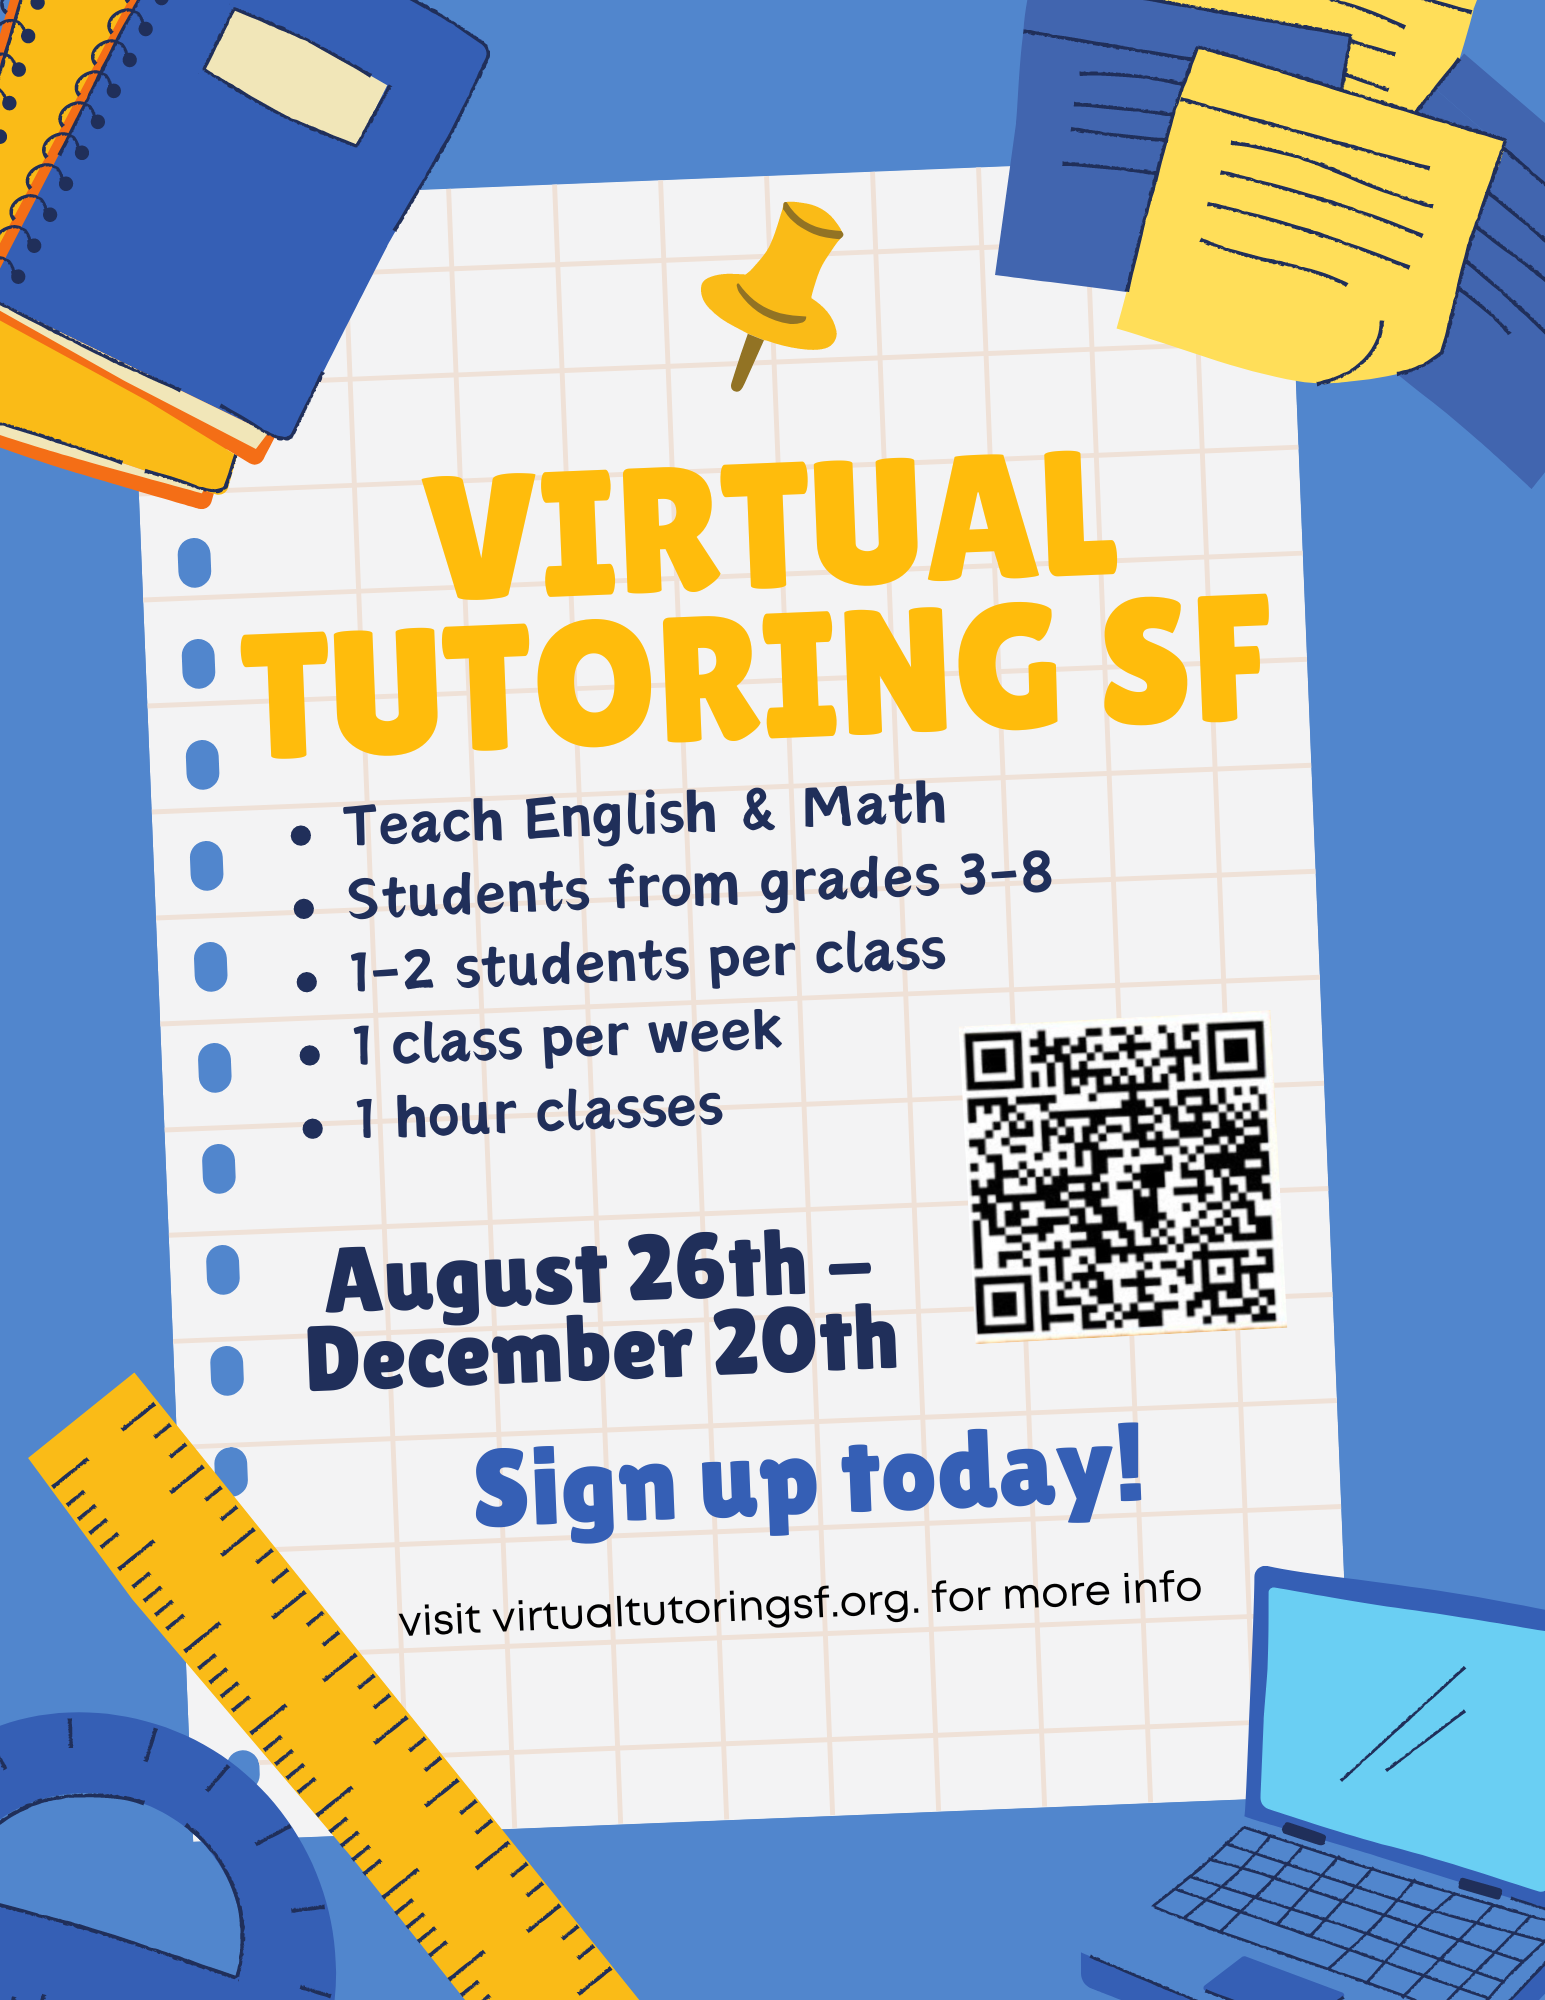
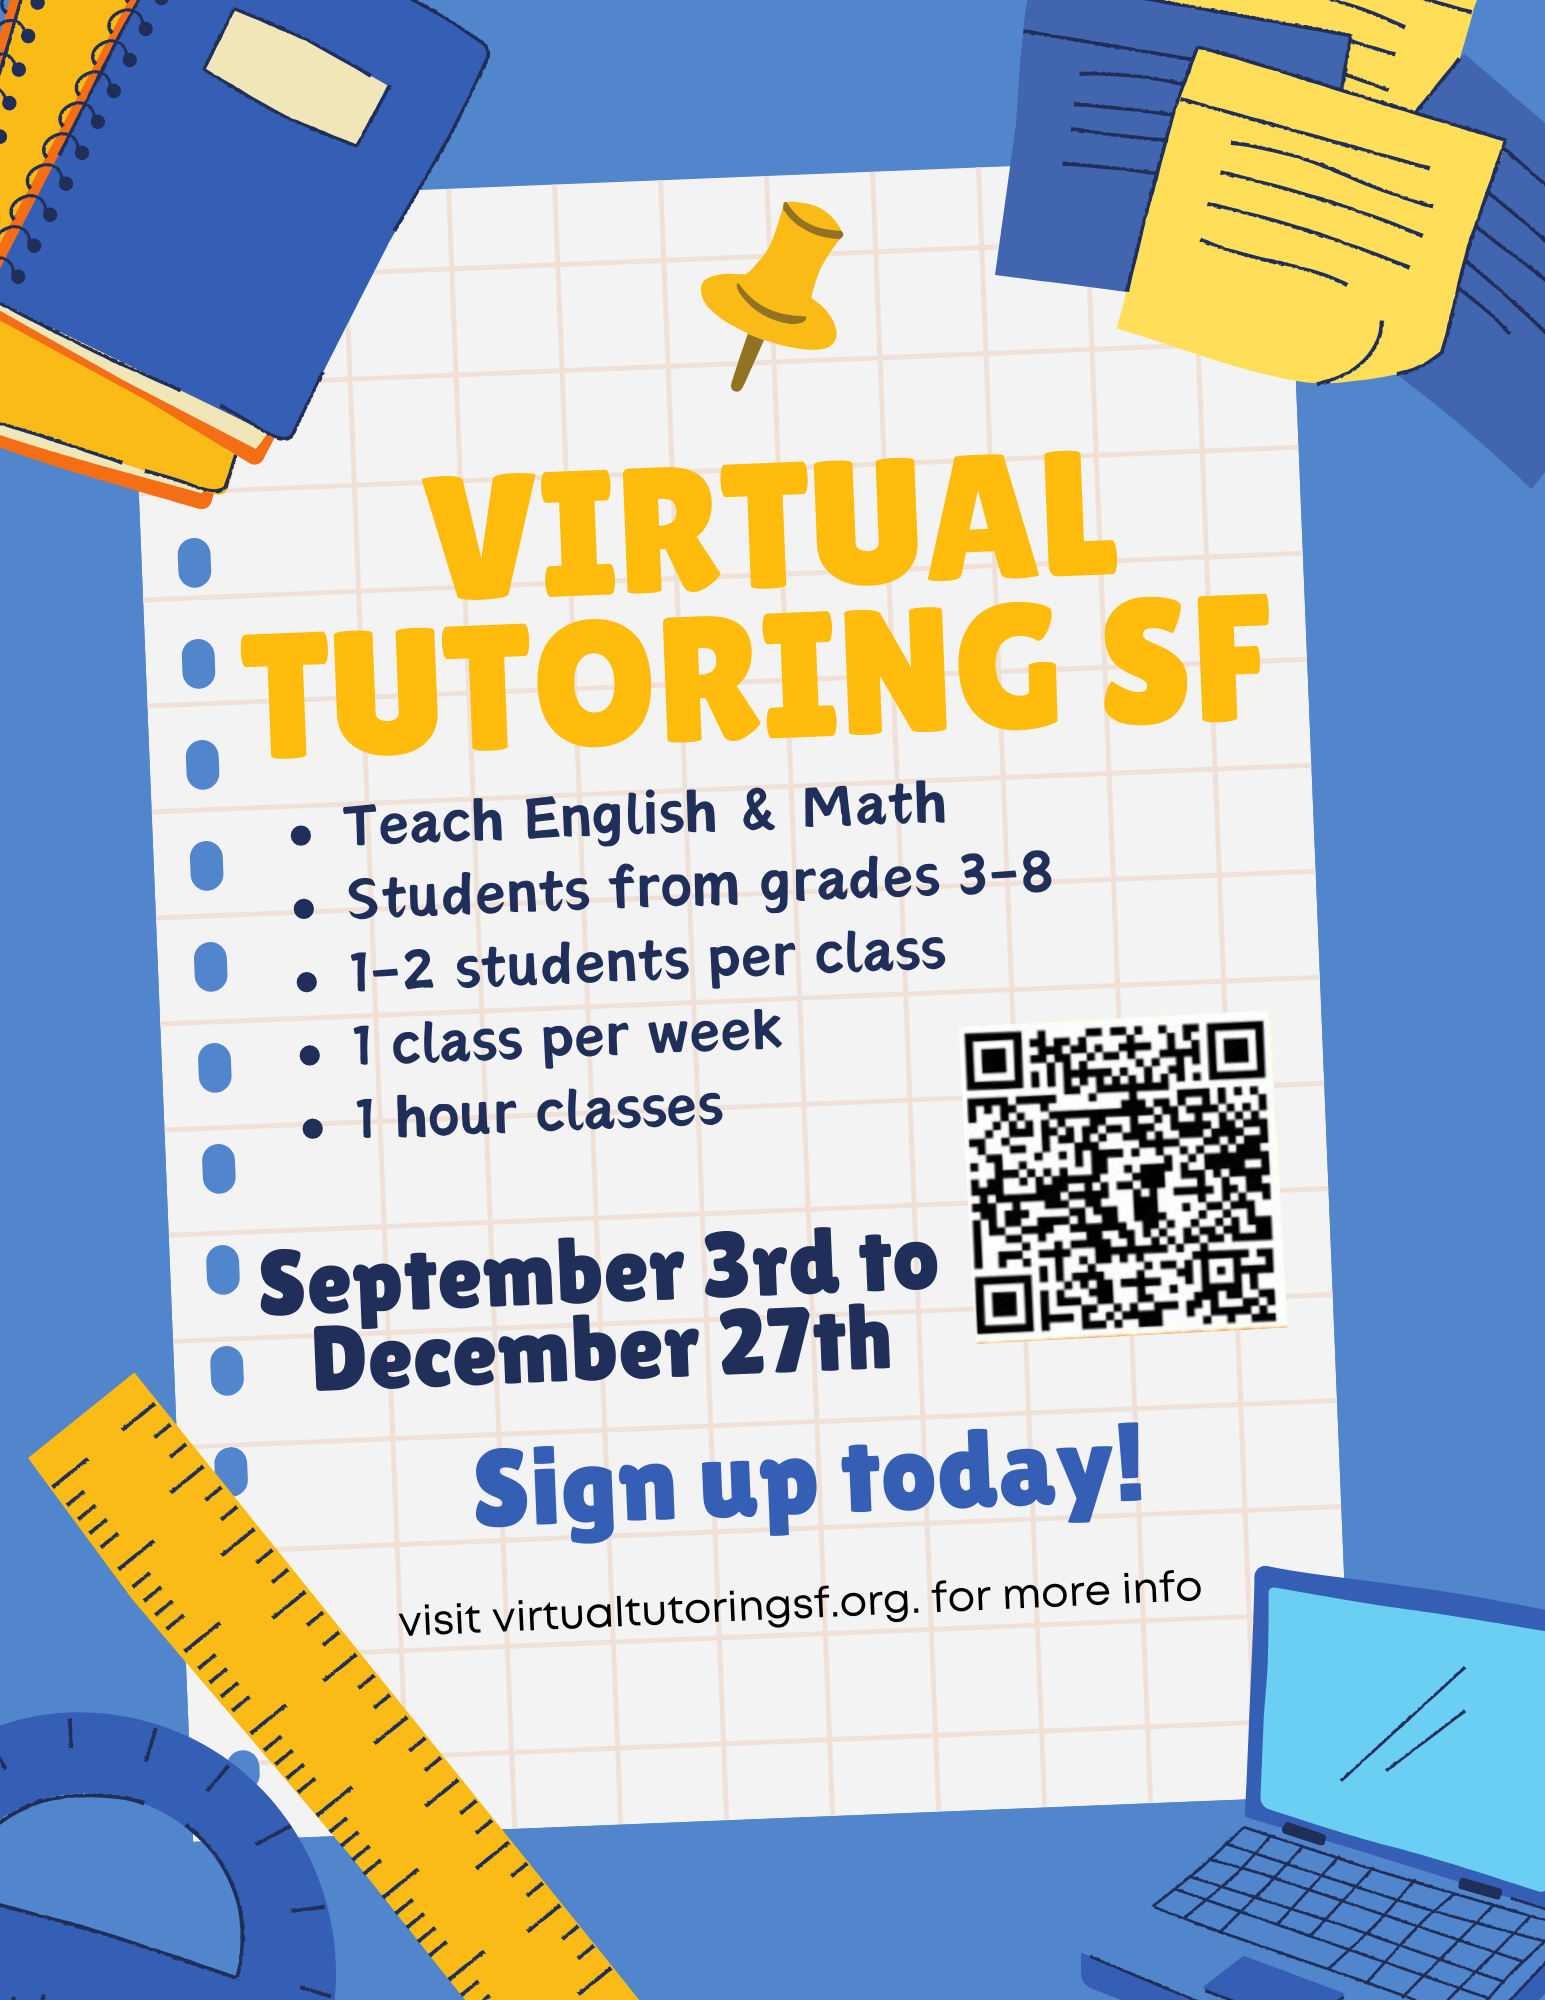
Update dates Fall 2024

Changed region(s): [[0.1553, 0.62, 0.6214, 0.713]]

diff --git a/src/tutors.html b/src/tutors.html
@@ -151,7 +151,7 @@
                     <p>
                         <b>Session Details</b>
                         <br>Tutors will be working with a small group of 1-2 students to reinforce their learning in the respective subject, building up the skills to excel throughout the Fall and beyond. 
-                        It will be from August 26th to December 20th. Class resources and lesson plans are provided. You may teach more than one class.
+                        It will be from September 3rd to December 20th. Class resources and lesson plans are provided. You may teach more than one class.
                     </p>
                     <br>
                     <br>

diff --git a/src/students.html b/src/students.html
@@ -168,7 +168,7 @@
                         <span class="cl-summary-titles">What We Provide</span>
                         <p>
                             <b>1. Class Prep</b>
-                            <br> Our fall program will run from the week of <u>August 26th to December 20th</u>. Classes will help students stay on track during the school year.
+                            <br> Our fall program will run from the week of <u>September 3rd to December 20th</u>. Classes will help students stay on track during the school year.
                         </p>
                         <br>
                         <br>
